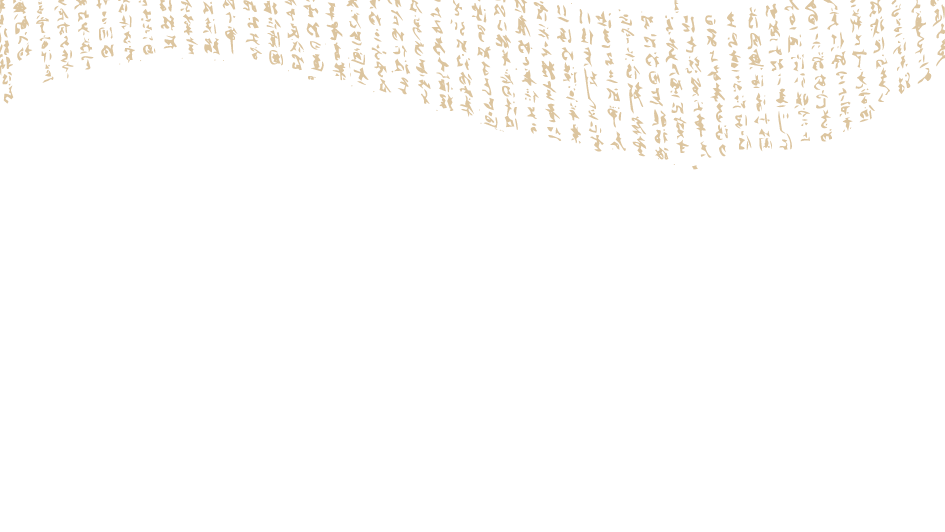
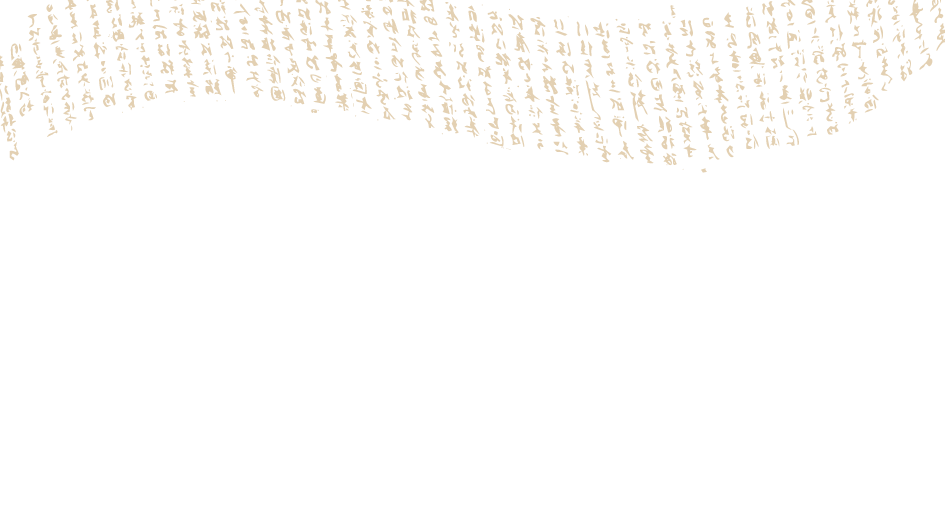
update

Changed region(s): [[0.0, 0.0, 1.0, 0.3308]]

diff --git a/app/pages/canvas.vue b/app/pages/canvas.vue
@@ -83,8 +83,9 @@
         class="p-wall__intro p-wall__intro--transition"
         aria-hidden="true"
       >
-        <!-- 狀態二：subLogo 動畫飛入 → 其上方「正式開跑」四字依序逐一浮現（書法墨色） -->
+        <!-- 狀態二：subLogo 動畫飛入 → 其下方「正式啟動」四字依序逐一浮現（書法墨色） -->
         <div class="p-wall__intro-banner">
+          <img src="/subLogo.svg" alt="" aria-hidden="true" class="p-wall__intro-logo" />
           <div class="p-wall__intro-slogan">
             <span
               v-for="(ch, i) in INTRO_SLOGAN"
@@ -93,7 +94,6 @@
               :style="{ animationDelay: 1.2 + i * 0.4 + 's' }"
             >{{ ch }}</span>
           </div>
-          <img src="/subLogo.svg" alt="" aria-hidden="true" class="p-wall__intro-logo" />
         </div>
       </div>
 
@@ -125,7 +125,7 @@
         </div>
       </div>
 
-      <!-- 開場狀態二：正式開跑標語播完後，主要角色（monkey 右側最大 / vegetable・monster 左側）依序搖晃進場 -->
+      <!-- 開場狀態二：正式啟動標語播完後，主要角色（monkey 右側最大 / vegetable・monster 左側）依序搖晃進場 -->
       <div v-if="introCastVisible" class="p-wall__intro-cast" aria-hidden="true">
         <div
           v-for="(c, i) in introCast"
@@ -141,8 +141,17 @@
           }"
         >
           <!-- 進場滑入由外層負責；搖晃（踏步傾擺）由內層 sprite 負責，與滑入分層避免 transform 互蓋 -->
+          <!-- 角色為純綠底 mp4，套 SVG 濾鏡 #monkey-chroma 綠幕去背 -->
           <div class="p-wall__cast-face" :style="{ transform: c.flip ? 'scaleX(-1)' : 'scaleX(1)' }">
-            <img :src="c.src" alt="" aria-hidden="true" class="p-wall__cast-sprite" />
+            <video
+              :src="c.src"
+              class="p-wall__cast-sprite"
+              autoplay
+              loop
+              muted
+              playsinline
+              aria-hidden="true"
+            />
           </div>
         </div>
       </div>
@@ -376,7 +385,7 @@ const hasUserStarted = ref(false)
  *      狀態流（以空白鍵推進）：
  *        opening    （第一次空白鍵前）：地上角色來回走動，僅以背景影片呈現，格陣隱藏。
  *        ─ 按空白鍵 ─→ transition：雲（綠幕影片）順向蓋滿 → 地上角色消失 → 雲反向散去
- *                        → 正式開跑標語動畫 → monkey/vegetable/monster 依序搖晃進場。
+ *                        → 正式啟動標語動畫 → monkey/vegetable/monster 依序搖晃進場。
  *        ─ 按空白鍵 ─→ revealing ：播放目前 reset 的綠幕去背影片，蓋滿後切入正常模式。
  *        done       ：正常模式（與一般模式相同），開始監聽資料。
  */
@@ -385,7 +394,7 @@ type IntroPhase = 'opening' | 'transition' | 'revealing' | 'done'
 const introMode = ref(false)
 const introPhase = ref<IntroPhase>('done')
 /** 狀態二標語：subLogo 飛入後，於其下方逐字浮現 */
-const INTRO_SLOGAN = ['正', '式', '開', '跑'] as const
+const INTRO_SLOGAN = ['正', '式', '啟', '動'] as const
 /** 開場序列動畫進行中（雲覆蓋／散去、標語播放等），期間忽略空白鍵避免插入。 */
 let introBusy = false
 /** 只有在正常模式（或開場序列結束）才顯示格陣等正常內容 */
@@ -441,17 +450,17 @@ const introWalkersVisible = ref(false)
 const introBannerVisible = ref(false)
 
 /**
- * 「正式開跑」標語播完後依序搖晃進場的主要角色。
+ * 「正式啟動」標語播完後依序搖晃進場的主要角色。
  *   from   : 'left' = 由左側搖晃滑入、'right' = 由右側搖晃滑入
  *   left   : 定位後距舞台左緣（%）        bottom : 距舞台底部（%，越小越靠下/前）
  *   width  : 寬度（cqw，舞台寬度比例）     delay  : 進場起始延遲（秒，做出「依序」進場）
  *   flip   : 是否水平鏡射原圖
- * monkey.webp 在右側、最大隻；vegetable-1 / monster-1 在左側。
+ * monkey.mp4 在右側、最大隻；vegetable.mp4 / monster.mp4 在左側（皆為純綠底 mp4，綠幕去背）。
  */
 const introCast = [
-  { src: '/monkey.webp',     from: 'right', left: 71, bottom: 26, width: 22, delay: 0,   flip: false, zIndex: 18 },
-  { src: '/vegetable-2.svg', from: 'left',  left: 15, bottom: 43, width: 12, delay: 0.7, flip: false, zIndex: 16 },
-  { src: '/monster-1.svg',   from: 'left',  left: 23, bottom: 23, width: 9.5, delay: 1.4, flip: false, zIndex: 17 }
+  { src: '/monkey.mp4',    from: 'right', left: 60, bottom: -4, width: 45,   delay: 0.7, flip: false, zIndex: 18 },
+  { src: '/vegetable.mp4', from: 'left',  left: 6,  bottom: 23, width: 25.5, delay: 0,   flip: false, zIndex: 16 },
+  { src: '/monster.mp4',   from: 'left',  left: 17, bottom: 1,  width: 21,   delay: 1.4, flip: false, zIndex: 17 }
 ] as const
 /** 主要角色是否顯示（標語播完後亮起，進入正常模式的雲覆蓋時隱藏）。 */
 const introCastVisible = ref(false)
@@ -1119,7 +1128,7 @@ function onIntroKeyDown(e: KeyboardEvent) {
   // 序列動畫進行中（雲覆蓋／散去、標語播放）一律忽略按鍵，避免中途插入
   if (introBusy) return
   if (introPhase.value === 'opening') {
-    // 狀態一 → 狀態二：雲蓋滿 → 地上角色消失 → 雲散去 → 正式開跑標語 → 主要角色搖晃進場
+    // 狀態一 → 狀態二：雲蓋滿 → 地上角色消失 → 雲散去 → 正式啟動標語 → 主要角色搖晃進場
     void runIntroTransition()
   } else if (introPhase.value === 'transition') {
     // 狀態二 → 播放目前 reset 的綠幕去背影片，結束後切入正常模式
@@ -1132,7 +1141,7 @@ function onIntroKeyDown(e: KeyboardEvent) {
  *   1. 雲（綠幕去背影片）順向蓋滿畫面。
  *   2. 順向播完的瞬間：地上來回走動的角色全部消失。
  *   3. 雲反向散去，露出乾淨背景。
- *   4. 雲散去後才開始「正式開跑」標語動畫（subLogo 飛入 + 四字逐字浮現）。
+ *   4. 雲散去後才開始「正式啟動」標語動畫（subLogo 飛入 + 四字逐字浮現）。
  *   5. 標語播完後：monkey.webp（右側最大）、vegetable-1 / monster-1（左側）依序搖晃進場。
  */
 async function runIntroTransition() {
@@ -1152,7 +1161,7 @@ async function runIntroTransition() {
   if (chromaReady) await chroma.playReverse()
   showResetVideo.value = false
 
-  // 4. 雲散去後：正式開跑標語動畫與主要角色進場同時開始
+  // 4. 雲散去後：正式啟動標語動畫與主要角色進場同時開始
   introBannerVisible.value = true
   introCastVisible.value = true
 

diff --git a/app/assets/scss/pages/_canvas.scss b/app/assets/scss/pages/_canvas.scss
@@ -156,19 +156,19 @@
 .p-wall__intro-banner {
     position: absolute;
     left: 50%;
-    top: 39%;
+    top: 13%;
     transform: translateX(-50%);
     display: flex;
     flex-direction: column;
     align-items: center;
-    gap: 1cqw;
+    gap: 0.3cqw;
     z-index: 14;
 }
 
 /* subLogo：由上方略帶縮放飛入並落定（略放大、向右偏移） */
 .p-wall__intro-logo {
     display: block;
-    width: 38cqw;
+    width: 46cqw;
     height: auto;
     margin-left: 5cqw;
     transform-origin: 50% 50%;
@@ -196,7 +196,7 @@
 /* 每個字：由下方淡入上浮，delay 由 inline style 依序錯開（書法墨色 #241F20） */
 .p-wall__intro-slogan-char {
     display: inline-block;
-    font-size: 7.8cqw;
+    font-size: 9.4cqw;
     font-weight: 900;
     line-height: 1;
     color: #241f20;
@@ -351,13 +351,14 @@
     transform-origin: 50% 100%;
 }
 
-/* 角色圖：定位後靜止不搖晃（僅外層負責進場滑入） */
+/* 角色影片：定位後靜止不搖晃（僅外層負責進場滑入）。
+   純綠底 mp4，套 SVG 濾鏡 #monkey-chroma 綠幕去背（與 reset 猴子一致）。 */
 .p-wall__cast-sprite {
     display: block;
     width: 100%;
     height: auto;
     transform-origin: 50% 100%;
-    filter: drop-shadow(0 2px 6px rgba(0, 0, 0, 0.3));
+    filter: url('#monkey-chroma');
 }
 
 /* 左側 12×12 paper.webp 格陣：略小於滿版高度、垂直置中、貼齊左側；格子之間不留縫隙 */